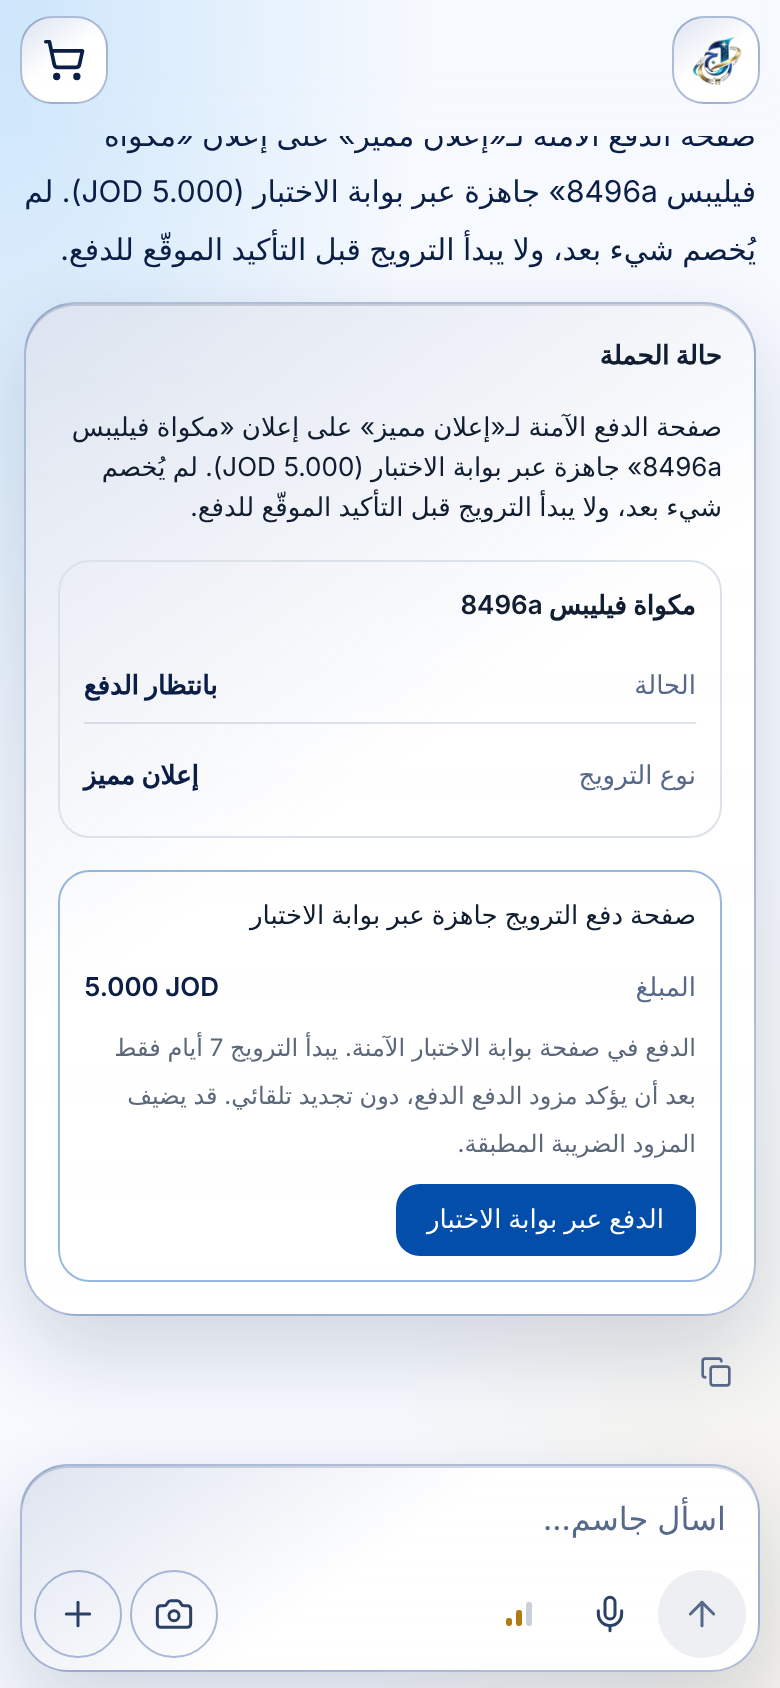
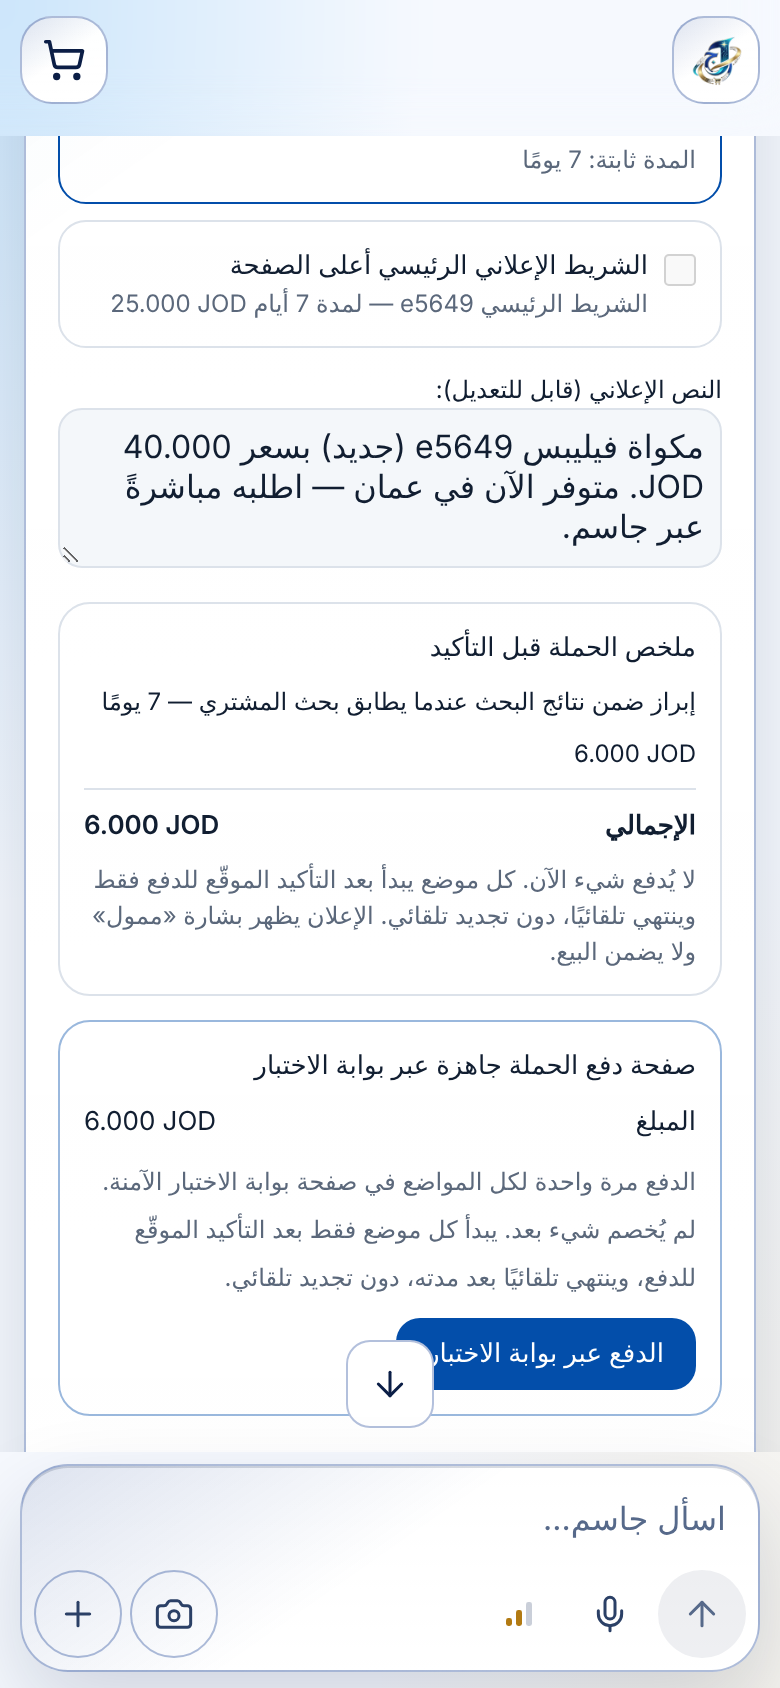
WIP: browser journey for placement builder, store card, per-placement results

Changed region(s): [[0.0308, 0.0616, 0.9846, 0.8318], [0.9538, 0.1848, 0.9846, 0.2156]]

diff --git a/artifacts/api-server/test/jassim-ads-plan-browser-journey.test.ts b/artifacts/api-server/test/jassim-ads-plan-browser-journey.test.ts
@@ -14,7 +14,7 @@ import { execFile } from "node:child_process";
 import { promisify } from "node:util";
 import { readFile, unlink } from "node:fs/promises";
 import { eq } from "drizzle-orm";
-import { db, listingPromotions, markets, pool, users } from "@workspace/db";
+import { businessProfiles, db, markets, pool, promotionCampaigns, users } from "@workspace/db";
 import app from "../src/app";
 import { startDinarBrowserTestWeb } from "./browser-test-web-server";
 import { appendCommercialPolicy } from "../src/lib/commercial-policy-append";
@@ -97,21 +97,30 @@ async function browser(phase: string, fixture: unknown, web: { baseUrl: string }
   return report;
 }
 
-test("ADS-PLAN browser: plan card, options, copy, interested buyers, review, payment handoff, results — mobile and desktop, RTL", async () => {
+test("ADS-PLAN browser: Go Sell for Me plan, placement builder (multi-select, days, copy, server total), payment handoff, per-placement results, store card — mobile and desktop, RTL", async () => {
   await db.update(markets).set({ isActive: true, status: "ACTIVE" }).where(eq(markets.id, "JO"));
   const admin = await register("admin");
   await db.update(users).set({ role: "ADMIN" }).where(eq(users.id, admin.id));
   await appendCommercialPolicy({ marketId: "JO", policy: { advertisingBillingActivation: "PROVIDER_DIRECT", advertisingBillingProvider: "test-gateway", minCohortSize: 3 }, actorId: admin.id });
-  for (const [name, productType, priceMinor, durationDays] of [["ظهور مميز", "VIP_LISTING", 8_000, 3], ["إبراز في البحث", "FEATURED_LISTING", 5_000, 7]] as const) {
-    const r = await req("/admin/markets/JO/commercial-products", "POST", { name: `${name} ${run}`, productType, categoryId: "electronics", priceMinor, durationDays, chargingMode: "FIXED" }, admin.cookie);
+  const product = async (body: Record<string, unknown>) => {
+    const r = await req("/admin/markets/JO/commercial-products", "POST", { chargingMode: "FIXED", ...body, name: `${body.name} ${run}` }, admin.cookie);
     assert.equal(r.status, 201, r.raw);
-  }
+    return r.data.id as string;
+  };
+  await product({ name: "الشريط الجانبي", productType: "SIDEBAR_AD", priceMinor: 2_000, durationDays: 7, pricingUnit: "DAY", minDays: 1, maxDays: 30, subjectKinds: ["LISTING", "STORE"] });
+  await product({ name: "الشريط الرئيسي", productType: "HERO_BANNER", priceMinor: 25_000, durationDays: 7, subjectKinds: ["LISTING", "STORE"] });
+  await product({ name: "إبراز في البحث", productType: "SPONSORED_SEARCH", categoryId: "electronics", priceMinor: 6_000, durationDays: 7 });
   const sellerAbove = await register("بائع-أ");
   const sellerBelow = await register("بائع-ب");
+  const storeOwner = await register("صاحب-متجر");
+  const viewer = await register("زائر");
   const titleAbove = `سماعة سوني ${run}`;
   const titleBelow = `مكواة فيليبس ${run}`;
   const listingAbove = await publish(sellerAbove, titleAbove);
   await publish(sellerBelow, titleBelow);
+  const storeId = randomUUID();
+  const storeName = `متجر الأمل ${run}`;
+  await db.insert(businessProfiles).values({ id: storeId, ownerUserId: storeOwner.id, marketId: "JO", displayName: storeName, normalizedName: `store-${storeId}`, categoryKey: "OTHER", legalName: "Synthetic Store", legalForm: "COMPANY", verificationStatus: "VERIFIED", verifiedAt: new Date(), verifiedBy: admin.id, publicationStatus: "PUBLISHED", idempotencyKey: randomUUID() });
   const JO = await resolveMarket((await db.select().from(markets).where(eq(markets.id, "JO")))[0]!);
   const buyers = [await register("مشتري1"), await register("مشتري2"), await register("مشتري3")];
   for (const b of buyers) await saveDemandRequest({ buyerId: b.id, market: JO, needText: titleAbove, consent: true });
@@ -119,16 +128,20 @@ test("ADS-PLAN browser: plan card, options, copy, interested buyers, review, pay
 
   const web = await startDinarBrowserTestWeb(origin);
   try {
-    const plan = await browser("PLAN", { sellerAbove, sellerBelow, titleAbove, titleBelow, expectedInterested: 3 }, web);
-    assert.ok(plan.checks.length >= 20, JSON.stringify(plan.checks));
-    const promotionId = plan.promotionId as string;
-    const [row] = await db.select().from(listingPromotions).where(eq(listingPromotions.id, promotionId));
-    assert.equal(row?.listingId, listingAbove);
-    assert.deepEqual([row?.status, row?.paymentStatus], ["PENDING_PAYMENT", "PROVIDER_PENDING"], "nothing starts from the browser confirmation");
-    const paid = await applyPromotionProviderEvent({ providerKey: "test-gateway", eventId: `b_${run}`, type: "PAID", eventType: "payment", digest: `b_${run}`, promotionId, expectedAccountId: "acct", facts: { status: "paid", ownerUserId: sellerAbove.id, subtotal: { amount: row!.priceMinorSnapshot === 5000 ? "5.000" : "8.000", currency: "JOD" } } });
-    assert.equal(paid.outcome, "APPLIED");
-    const results = await browser("RESULTS", { sellerAbove, titleAbove }, web);
-    assert.ok(results.checks.length >= 6, JSON.stringify(results.checks));
+    const plan = await browser("PLAN", { sellerAbove, sellerBelow, storeOwner, titleAbove, titleBelow, storeName }, web);
+    assert.ok(plan.checks.length >= 40, JSON.stringify(plan.checks));
+    for (const [campaignId, owner, total] of [[plan.campaignId, sellerAbove, "14.000"], [plan.storeCampaignId, storeOwner, "6.000"]] as const) {
+      const [campaign] = await db.select().from(promotionCampaigns).where(eq(promotionCampaigns.id, campaignId));
+      assert.equal(campaign?.status, "PENDING_PAYMENT", "nothing starts from the browser confirmation");
+      assert.equal((campaign!.totalMinor / 1000).toFixed(3), total, "the browser showed exactly the server total");
+      const paid = await applyPromotionProviderEvent({ providerKey: "test-gateway", eventId: `b_${campaignId}`, type: "PAID", eventType: "payment", digest: `b_${campaignId}`, promotionId: campaignId, expectedAccountId: "acct", facts: { status: "paid", ownerUserId: owner.id, subtotal: { amount: total, currency: "JOD" } } });
+      assert.equal(paid.outcome, "APPLIED");
+    }
+    const [aboveCampaign] = await db.select().from(promotionCampaigns).where(eq(promotionCampaigns.id, plan.campaignId));
+    assert.equal(aboveCampaign?.listingId, listingAbove);
+    assert.equal(aboveCampaign?.adCopy, plan.editedCopy, "the edited ad text is what was saved");
+    const results = await browser("RESULTS", { sellerAbove, viewer, titleAbove, storeName }, web);
+    assert.ok(results.checks.length >= 12, JSON.stringify(results.checks));
   } finally {
     await web.stop();
   }

diff --git a/artifacts/api-server/src/ai/commerce-turn.ts b/artifacts/api-server/src/ai/commerce-turn.ts
@@ -1639,10 +1639,16 @@ async function analytics(actorId: string, market: Market, latest: CommerceQuery 
   // The campaign in context (status card) or all of the seller's campaigns.
   const focus = latest?.promotionId ? [latest.promotionId] : latestSet && (latestSet.query as { kind?: unknown; view?: unknown }).kind === "PROMOTION" && (latestSet.query as { promotionId?: unknown }).promotionId ? [String((latestSet.query as { promotionId: string }).promotionId)] : all.map((item) => item.id);
   const rows = await campaignAnalytics(actorId, market, focus);
+  const campaignRowIds = new Set((await db.select({ id: listingPromotions.id }).from(listingPromotions).where(and(eq(listingPromotions.sellerId, actorId), isNotNull(listingPromotions.campaignId)))).map((row) => row.id));
+  const placementCount = (await campaignResults(actorId, market).catch(() => [])).length;
   const budgeted = rows.filter((row) => row.budgetLabel);
   const summary = budgeted.length
     ? budgeted.map((row) => `«${row.listingTitle}»: صُرف ${row.spentLabel} من ${row.budgetLabel} وبقي ${row.remainingLabel}`).join("؛ ")
-    : `${rows.length} حملة`;
+    : (() => {
+        const standalone = rows.filter((row) => !campaignRowIds.has(row.promotionId)).length;
+        const total = standalone + placementCount;
+        return total === 1 ? "حملة واحدة" : total === 2 ? "حملتان" : `${total} حملات`;
+      })();
   return turnFor({ kind: "COMMERCE", ownerId: actorId, view: "CAMPAIGN_ANALYTICS" }, focus, `نتائج حملاتك (أرقام مجمّعة من أحداث يتحقق منها الخادم): ${summary}.`, actorId, market);
 }
 
